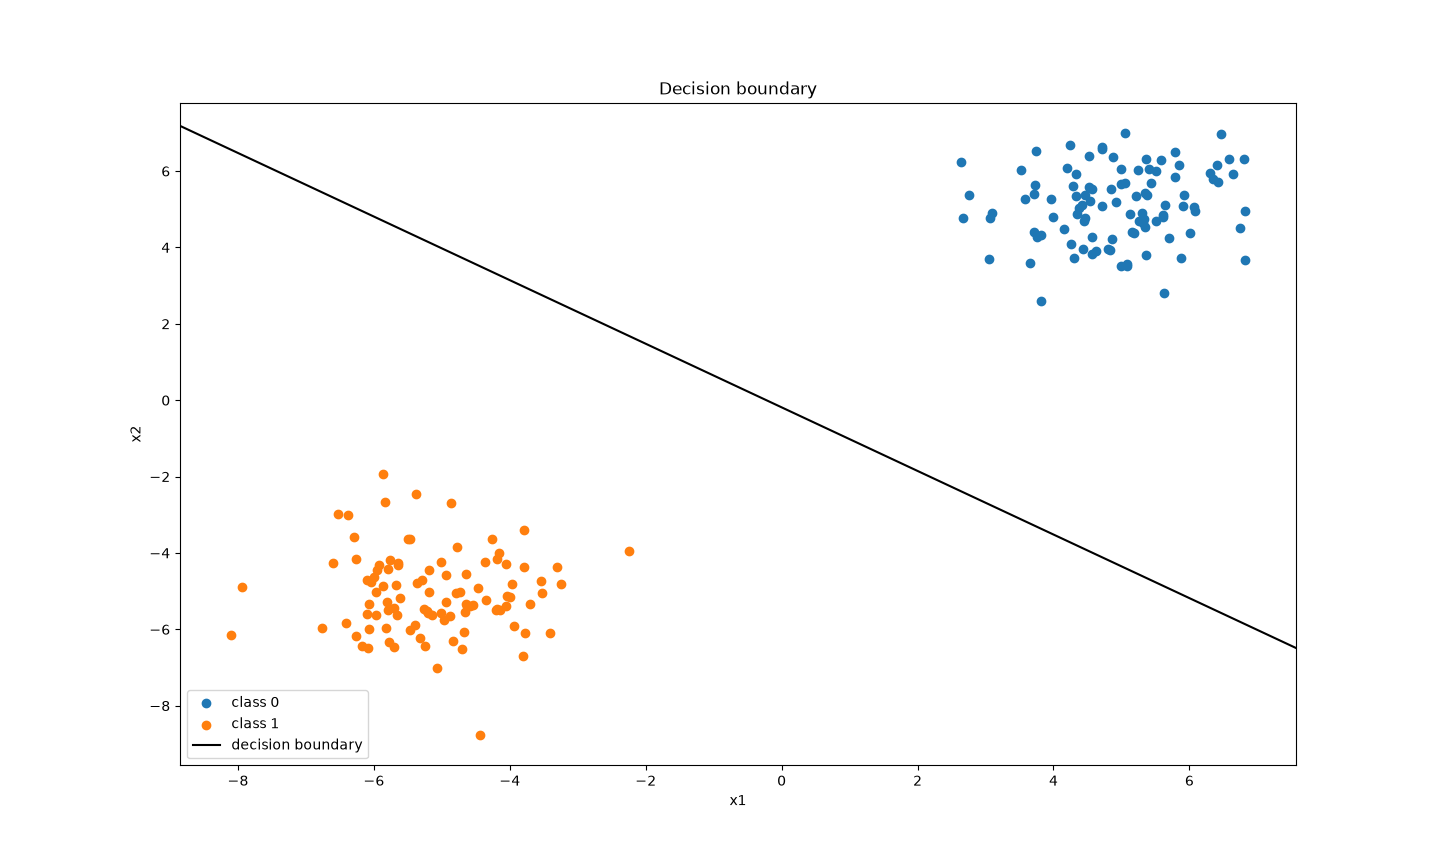
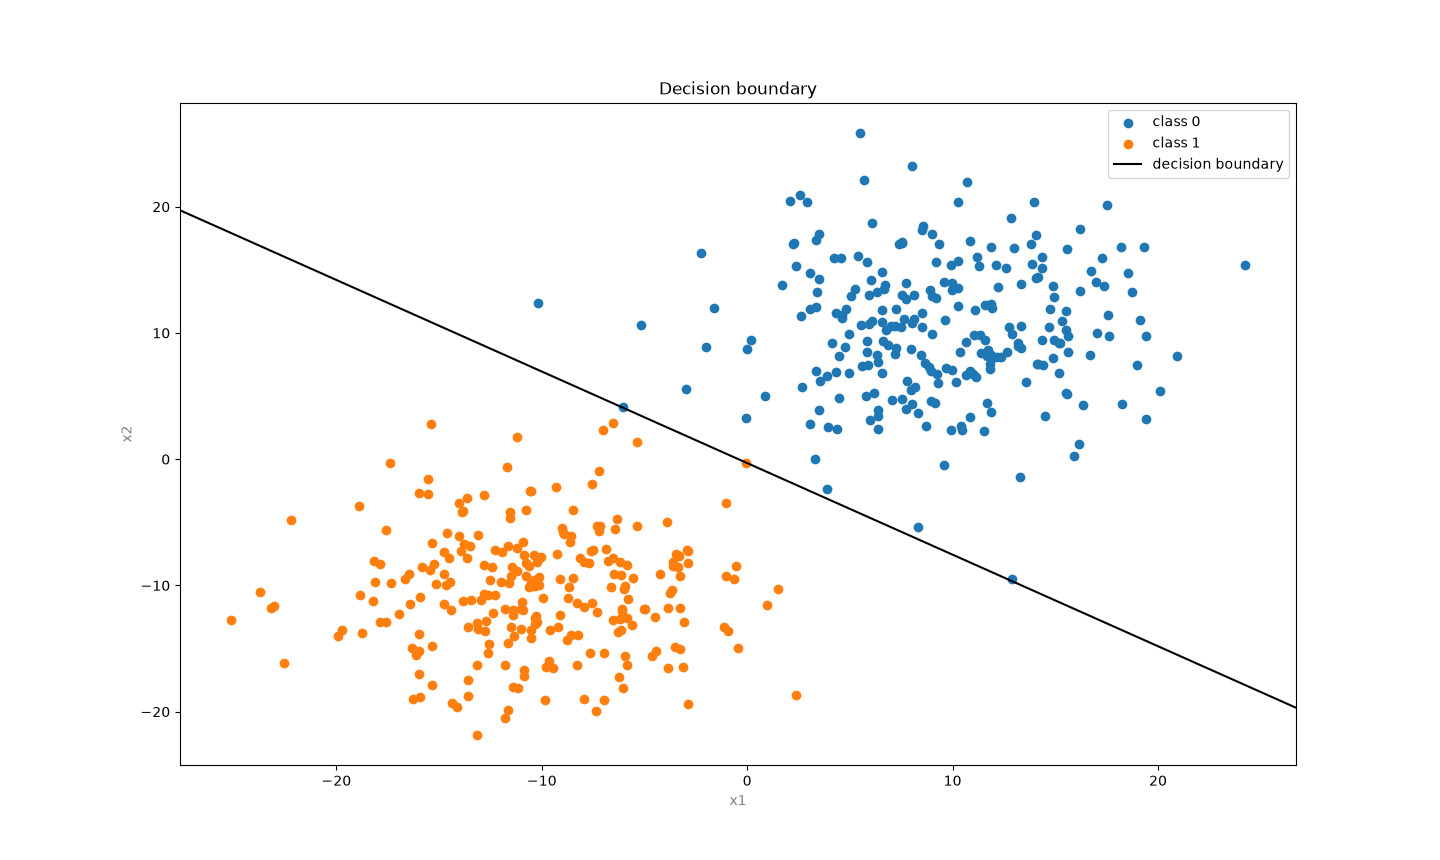
Update README

diff --git a/README.md b/README.md
@@ -8,8 +8,8 @@ It trains on synthetic 2D clusters or on the Iris dataset, prints its accuracy,
 and plots the decision boundary and the training error curve.
 
 <p align="center">
-  <img src="docs/boundary_clusters.png" width="45%" alt="Decision boundary">
-  <img src="docs/errors_clusters.png" width="45%" alt="Training errors">
+  <img src="docs/boundary_clusters.png" width="49%" alt="Decision boundary">
+  <img src="docs/errors_clusters.png" width="49%" alt="Training errors">
 </p>
 
 ## Features
@@ -18,8 +18,9 @@ and plots the decision boundary and the training error curve.
   `w += lr · (target − pred) · x`, and early stopping once an epoch has no errors.
 - **Synthetic data.** Two Gaussian clusters around different centers,
   reproducible via `--seed`.
-- **Real data.** Iris: setosa vs. the other species, using petal length and width.
+- **Real data.** Iris: setosa vs. the other species, using petal length and width. 
 - **Visualization.** Decision boundary over class-colored samples and errors per epoch.
+  Plots can be shown interactively or saved as PNG files.
 - **Simple CLI.** One command to run, clear error messages instead of tracebacks.
 - **Code quality.** Type hints, `ruff`, `mypy --strict`, `pytest` tests, and CI on GitHub Actions.
 
@@ -76,9 +77,11 @@ Accuracy: 1.000
 More examples:
 
 ```bash
-uv run perceptron --plot                   # show plots
-uv run perceptron --dataset iris --plot    # train on Iris
-uv run perceptron --help                   # list all options
+uv run perceptron --plot                     # show plots
+uv run perceptron --dataset iris --plot      # train on Iris
+uv run perceptron --save-dir docs/           # save plots as PNG files
+uv run perceptron --offset 3.0 --spread 1.5  # generate harder clusters
+uv run perceptron --help                     # list all options
 ```
 
 You can also run the package as a module: `uv run python -m perceptron ...`
@@ -88,11 +91,14 @@ You can also run the package as a module: `uv run python -m perceptron ...`
 | Option | Default | Description |
 |---|---|---|
 | `--samples` | `200` | number of points (`clusters` only) |
+| `--offset` | `5.0` | cluster center offset (`clusters` only) |
+| `--spread` | `1.0` | cluster standard deviation (`clusters` only) |
 | `--lr` | `0.1` | learning rate, must be positive |
 | `--epochs` | `50` | maximum number of epochs, at least 1 |
 | `--seed` | `0` | random seed for data generation |
 | `--dataset` | `clusters` | `clusters` or `iris` |
 | `--plot` | off | show plots after training |
+| `--save-dir` | None | directory to save plots as PNG |
 
 ## Iris
 
@@ -102,7 +108,7 @@ setosa is linearly separable on them, and the boundary can be drawn on a plane.
 Training converges in 3 epochs with an accuracy of 1.0.
 
 <p align="center">
-  <img src="docs/boundary_iris.png" width="60%" alt="Iris decision boundary">
+  <img src="docs/boundary_iris.png" width="65%" alt="Iris decision boundary">
 </p>
 
 ## Project structure
